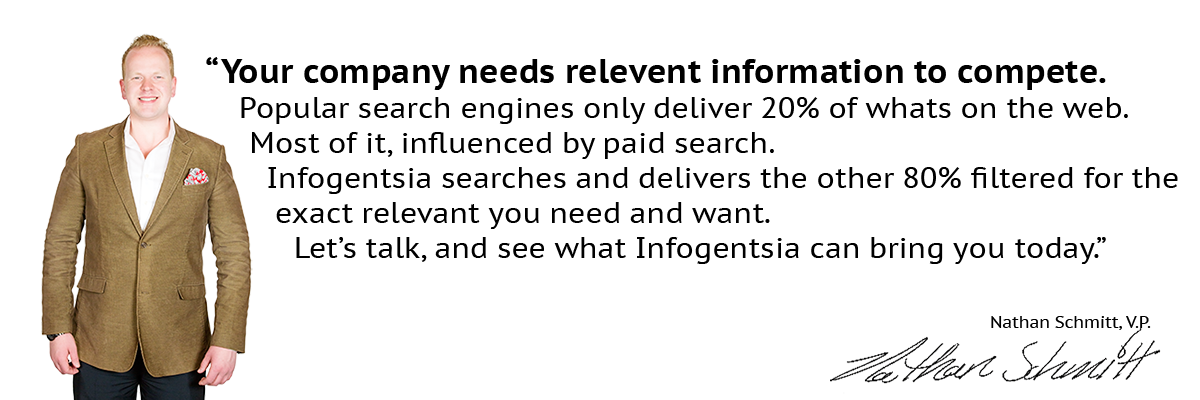
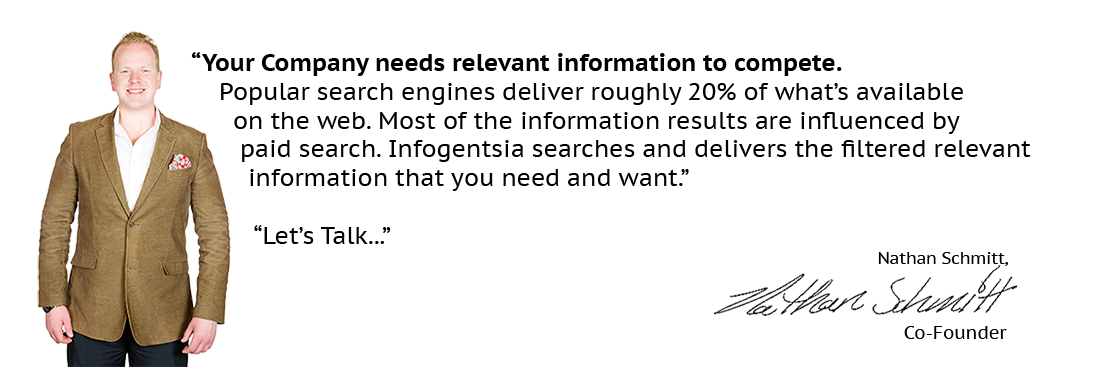
edits to rough draft

diff --git a/img/girlsmiles.html b/img/girlsmiles.html
@@ -1,0 +1,10 @@
+<!DOCTYPE html><html itemscope itemtype="http://schema.org/SearchResultsPage" prefix="og: http://ogp.me/ns/website#"><head><meta http-equiv="content-type" content="text/html; charset=UTF-8"><meta itemprop="image" content="http://www.citifmonline.com/wp-content/uploads/2015/01/black-woman-in-work.jpg"><meta itemprop="name" content="Google Image Result for http://www.citifmonline.com/wp-content/uploads/2015/01/black-woman-in-work.jpg"><meta property="og:type" content="website"><meta property="og:image" content="http://www.citifmonline.com/wp-content/uploads/2015/01/black-woman-in-work.jpg"><meta property="og:title" content="Google Image Result for http://www.citifmonline.com/wp-content/uploads/2015/01/black-woman-in-work.jpg"><title>Google Image Result for http://www.citifmonline.com/wp-content/uploads/2015/01/black-woman-in-work.jpg</title><script>(function(){window.google={kEI:'-rIHVtHLJ4XxoATl2bWoCw',kEXPI:'3310784,4028875,4029815,4031109,4031477,4032235,4032677,4033307,4033344,4034882,4036005,4036527,4037333,4037569,4037962,4037964,4038012,4038214,4039747,4041322,4041440,4041507,4041776,4041837,4042158,4042180,4042492,4043255,4043411,4043457,4043458,4043492,4043564,4043568,4043596,4044246,4044338,4044343,4044606,4044864,4045003,4045717,4045763,4045841,4045872,4046043,4046117,4046304,4046340,4046353,4046399,4046607,4046717,4046835,4046837,4046904,4046906,4047135,4047333,4047492,4047530,4047548,4047593,4047599,4047685,4047914,4048482,4048507,4048511,4048595,8300200,8300203,8501988,10200083',authuser:0,kscs:'c9c918f0_21'};google.kHL='en';})();(function(){google.lc=[];google.li=0;google.getEI=function(a){for(var b;a&&(!a.getAttribute||!(b=a.getAttribute("eid")));)a=a.parentNode;return b||google.kEI};google.getLEI=function(a){for(var b=null;a&&(!a.getAttribute||!(b=a.getAttribute("leid")));)a=a.parentNode;return b};google.https=function(){return"https:"==window.location.protocol};google.ml=function(){return null};google.time=function(){return(new Date).getTime()};google.log=function(a,b,d,e,g){a=google.logUrl(a,b,d,e,g);if(""!=a){b=new Image;var c=google.lc,f=google.li;c[f]=b;b.onerror=b.onload=b.onabort=function(){delete c[f]};window.google&&window.google.vel&&window.google.vel.lu&&window.google.vel.lu(a);b.src=a;google.li=f+1}};google.logUrl=function(a,b,d,e,g){var c="",f=google.ls||"";if(!d&&-1==b.search("&ei=")){var h=google.getEI(e),c="&ei="+h;-1==b.search("&lei=")&&((e=google.getLEI(e))?c+="&lei="+e:h!=google.kEI&&(c+="&lei="+google.kEI))}a=d||"/"+(g||"gen_204")+"?atyp=i&ct="+a+"&cad="+b+c+f+"&zx="+google.time();/^http:/i.test(a)&&google.https()&&(google.ml(Error("a"),!1,{src:a,glmm:1}),a="");return a};google.y={};google.x=function(a,b){google.y[a.id]=[a,b];return!1};google.load=function(a,b,d){google.x({id:a+k++},function(){google.load(a,b,d)})};var k=0;})();</script><script>(function(){google.c={c:{a:true,d:false,i:false,m:true}};google.sn='imgres';(function(){function f(a,c,b){g.push({o:a,v:c,w:b});h?a.addEventListener(c,b,!1):k&&a.attachEvent("on"+c,b)}function e(a,c,b){h?a.removeEventListener(c,b,!1):k&&a.detachEvent("on"+c,b)}var h=window.addEventListener,k=window.attachEvent,g=[];google.timers={};google.startTick=function(a,c){var b=c?google.timers[c].t.start:google.time();google.timers[a]={t:{start:b},e:{},it:{},b:{}};(b=window.performance)&&b.now&&(google.timers[a].wsrt=Math.floor(b.now()))};google.tick=function(a,c,b){google.timers[a]||
+google.startTick(a);b=b||google.time();c instanceof Array||(c=[c]);for(var d=0;d<c.length;++d)google.timers[a].t[c[d]]=b};google.c.e=function(a,c,b){google.timers[a].e[c]=b};google.bit=function(a,c){google.timers[a]||google.startTick(a);var b=google.timers[a].it[c];b||(b=google.timers[a].it[c]=[]);var d=b.push({s:google.time()})-1;return function(){b[d]&&(b[d].e=google.time())}};google.blockCSI=function(a,c){google.timers[a].b[c]=!0};google.unblockCSI=function(a,c){var b=google.timers[a];if(b){b=
+b.b;b[c]=!1;for(var d in b)if(b.hasOwnProperty(d)&&b[d])return;google.csiReport()}};google.rll=function(a,c,b){var d=function(c){b(c);e(a,"load",d);e(a,"error",d)};f(a,"load",d);c&&f(a,"error",d)};google.ull=function(){for(var a;a=g.shift();)e(a.o,a.v,a.w)};google.iTick=function(a){var c=google.time();google.tick("load","iml",c);a=a.id||a.src||a.name;google.tick("iml",a,c);google.c.c.a&&google.tick("aft",a,c)};google.afte=!0;google.aft=function(a){google.c.c.a&&google.afte&&google.tick("aft",a.id||
+a.src||a.name)};google.startTick("load");google.blockCSI("load","ol");google.blockCSI("load","xjs")})();})();try{google['pt']=window['chrome']&&window['chrome']['csi']&&Math.floor(window['chrome']['csi']()['pageT']);}catch(e){}
+</script><script></script><script>(function(){'use strict';var k=this,l=Date.now||function(){return+new Date};var t={};var w=function(a,d){if(null===d)return!1;if("contains"in a&&1==d.nodeType)return a.contains(d);if("compareDocumentPosition"in a)return a==d||Boolean(a.compareDocumentPosition(d)&16);for(;d&&a!=d;)d=d.parentNode;return d==a};var x=function(a,d){return function(b){b||(b=window.event);return d.call(a,b)}},B=function(a){a=a.target||a.srcElement;!a.getAttribute&&a.parentNode&&(a=a.parentNode);return a},C="undefined"!=typeof navigator&&/Macintosh/.test(navigator.userAgent),D="undefined"!=typeof navigator&&!/Opera/.test(navigator.userAgent)&&/WebKit/.test(navigator.userAgent),E={A:1,INPUT:1,TEXTAREA:1,SELECT:1,BUTTON:1},F=function(){this._mouseEventsPrevented=!0},G={A:13,BUTTON:0,CHECKBOX:32,COMBOBOX:13,GRIDCELL:13,LINK:13,LISTBOX:13,MENU:0,MENUBAR:0,MENUITEM:0,MENUITEMCHECKBOX:0,MENUITEMRADIO:0,OPTION:0,RADIO:32,RADIOGROUP:32,RESET:0,SUBMIT:0,TAB:0,TREE:13,TREEITEM:13},H=function(a){return(a.getAttribute("type")||a.tagName).toUpperCase()in aa},I=function(a){return(a.getAttribute("type")||a.tagName).toUpperCase()in ba},aa={CHECKBOX:!0,OPTION:!0,RADIO:!0},ba={COLOR:!0,DATE:!0,DATETIME:!0,"DATETIME-LOCAL":!0,EMAIL:!0,MONTH:!0,NUMBER:!0,PASSWORD:!0,RANGE:!0,SEARCH:!0,TEL:!0,TEXT:!0,TEXTAREA:!0,TIME:!0,URL:!0,WEEK:!0},ca={A:!0,AREA:!0,BUTTON:!0,DIALOG:!0,IMG:!0,INPUT:!0,LINK:!0,MENU:!0,OPTGROUP:!0,OPTION:!0,PROGRESS:!0,SELECT:!0,TEXTAREA:!0};var J=function(){this.v=this.o=null},L=function(a,d){var b=K;b.o=a;b.v=d;return b};J.prototype.s=function(){var a=this.o;this.o&&this.o!=this.v?this.o=this.o.__owner||this.o.parentNode:this.o=null;return a};var M=function(){this.w=[];this.o=0;this.v=null;this.H=!1};M.prototype.s=function(){if(this.H)return K.s();if(this.o!=this.w.length){var a=this.w[this.o];this.o++;a!=this.v&&a&&a.__owner&&(this.H=!0,L(a.__owner,this.v));return a}return null};var K=new J,O=new M;var Q=function(){this.J=[];this.o=[];this.s=[];this.H={};this.v=null;this.w=[];P(this,"_custom")},da="undefined"!=typeof navigator&&/iPhone|iPad|iPod/.test(navigator.userAgent),R=String.prototype.trim?function(a){return a.trim()}:function(a){return a.replace(/^\s+/,"").replace(/\s+$/,"")},ea=/\s*;\s*/,ia=function(a,d){return function(b){var c=d;if("_custom"==c){c=b.detail;if(!c||!c._type)return;c=c._type}var e;if("click"==c&&(C&&b.metaKey||!C&&b.ctrlKey||2==b.which||null==b.which&&4==b.button||b.shiftKey))c="clickmod";else{var f;f=b.which||b.keyCode||b.key;D&&3==f&&(f=13);if(13!=f&&32!=f)f=!1;else{var m=B(b),q=(m.getAttribute("role")||m.type||m.tagName).toUpperCase(),h;(h="keydown"!=b.type)||("getAttribute"in m?(h=(m.getAttribute("role")||m.tagName).toUpperCase(),h=!I(m)&&("COMBOBOX"!=h||"INPUT"!=h)&&!m.isContentEditable):h=!1,h=!h);(h=
+h||b.ctrlKey||b.shiftKey||b.altKey||b.metaKey||H(m)&&32==f)||((h=m.tagName in E)||(h=m.getAttributeNode("tabindex"),h=null!=h&&h.specified),h=!(h&&0<=m.tabIndex&&!m.disabled));h?f=!1:(m="INPUT"!=m.tagName.toUpperCase()||m.type,h=!(q in G)&&13==f,f=(0==G[q]%f||h)&&!!m)}f&&(c="clickkey")}q=b.srcElement||b.target;f=S(c,b,q,"",null);var g;b.path?(O.w=b.path,O.o=0,O.v=this,O.H=!1,m=O):m=L(q,this);for(;h=m.s();){g=e=h;h=c;var n=g.__jsaction;if(!n){var u=void 0,n=null;"getAttribute"in g&&(n=g.getAttribute("jsaction"));if(u=n){n=t[u];if(!n){for(var n={},y=u.split(ea),z=0,fa=y?y.length:0;z<fa;z++){var r=y[z];if(r){var A=r.indexOf(":"),N=-1!=A,ga=N?R(r.substr(0,A)):"click",r=N?R(r.substr(A+1)):r;n[ga]=r}}t[u]=n}g.__jsaction=n}else n=ha,g.__jsaction=n}"clickkey"==h?h="click":"click"!=h||n.click||(h="clickonly");g={I:h,action:n[h]||"",event:null,M:!1};f=S(g.I,g.event||b,q,g.action||"",e,f.timeStamp);if(g.M||g.action)break}f&&"touchend"==f.eventType&&(f.event._preventMouseEvents=F);if(g&&g.action){if(g="clickkey"==c)g=
+B(b),g=(g.type||g.tagName).toUpperCase(),(g=32==(b.which||b.keyCode||b.key)&&"CHECKBOX"!=g)||(g=B(b),q=(g.getAttribute("role")||g.tagName).toUpperCase(),g=g.tagName.toUpperCase()in ca&&"A"!=q&&!H(g)&&!I(g)||"BUTTON"==q);g&&(b.preventDefault?b.preventDefault():b.returnValue=!1);if("mouseenter"==c||"mouseleave"==c)if(g=b.relatedTarget,!("mouseover"==b.type&&"mouseenter"==c||"mouseout"==b.type&&"mouseleave"==c)||g&&(g===e||w(e,g)))f.action="",f.actionElement=null;else{var c={},p;for(p in b)"function"!==
+typeof b[p]&&"srcElement"!==p&&"target"!==p&&(c[p]=b[p]);c.type="mouseover"==b.type?"mouseenter":"mouseleave";c.target=c.srcElement=e;c.bubbles=!1;f.event=c;f.targetElement=e}}else f.action="",f.actionElement=null;e=f;a.v&&(p=S(e.eventType,e.event,e.targetElement,e.action,e.actionElement,e.timeStamp),"clickonly"==p.eventType&&(p.eventType="click"),a.v(p,!0));if(e.actionElement){"A"!=e.actionElement.tagName||"click"!=e.eventType&&"clickmod"!=e.eventType||(b.preventDefault?b.preventDefault():b.returnValue=
[1 lines of base64/hex data omitted]
+</script></div></body><script>(function(){google.rll(window,!1,function(){google.tick("load","ol");google.unblockCSI("load","ol")});google.tick("load","prt");})();</script></html>

diff --git a/testimonials.html b/testimonials.html
@@ -44,7 +44,7 @@
 						</ul>  
 
 						<ul class="nav navbar-nav navbar-right"> 
-						     <li id="nav-right"><a href="tel:+1-503-701-8747"><img src="img/phone.png" id="phone-ico" alt="phone">LET'S TALK</a><br><span id="tely"><a href="tel:+1-503-701-8747">+1-503-701-8747</a></span></a></li>
+						    <li id="nav-right"><a href="tel:+1-503-701-8747"><img src="img/phone.png" id="phone-ico" alt="phone">LET'S TALK</a><br><span id="tely"><a href="tel:+1-503-701-8747">+1-503-701-8747</a></span></a></li>
 							<li  id="d-top">
 							<form class="searchbox nav navbar-right">
 								<input type="search" placeholder="Search......" name="search" class="searchbox-input" onkeyup="buttonUp();" required>
@@ -104,7 +104,7 @@
 						
 						<p class="floatIt">
 							“As a board member for not for profit and for profit companies across the country, it is important that I keep up with news and information regarding each company. It is difficult to find Industry news and competitive information in a real time, summarized, easy to read format at my fingertips each morning. Infogentsia does just that, improving my ability to provide immediate and sound oversight and strategic direction. It is a tool all senior executives and board members should use to provide them and their companies a competitive edge in today's environment.”	<br><br>
-							<i> - Julie Klapstein: Sr. Board Member and Private Equity</i>
+							<i> - Julie Klapstein: Senior Board Member and Private Equity</i>
 						</p>
 					<!-- </div> -->
 				</div>
@@ -127,7 +127,7 @@
 						
 						<p class="floatIt">
 							“The Infogentsia platform has yielded some very useful data, particularly as it relates to marketing.  It allows me to track people of interest and companies, including existing clients and targets.  For example, just this morning, I learned of important management appointments at [Client] that [our firm's engagement partner for the client] had not known of.  Yesterday, I learned of an unpublished opinion by Judge Panner on an attorney fee award issue that is important to me. It was a day old and had not made it into the legal publications.  It also led me to an op-ed in the Biz Journal a couple of weeks ago by [one of our clients] which gave me the basis for connecting with her to congratulate her on a job well done.” <br><br>
-							<i> - Daniel Skerritt: Practicing Lawyer</i>
+							<i> - Daniel Skerritt: Practicing Lawyer <br>  &nbsp;&nbsp;Tonkon Torp LLP</i>
 						</p>
 					<!-- </div> -->
 				</div>
@@ -150,7 +150,7 @@
 						
 						<p class="floatIt">
 							“As a paint company focused on color+design, the Infogentsia platform puts current color trends, color forecasting information, and competitor color and product releases in my inbox each morning.  This curated approach not only saves me time, but also helps make sure I'm not missing anything in the big wide world of color.  Being clued into what is happening here in the US in interiors as well as globally- from Europe to South America helps me create the richest content possible for Colorhouse.”<br><br>
-							<i> - Puji Sherer: Design and Retail</i>
+							<i> - Puji Sherer: Design and Retail <br>&nbsp;&nbsp;Colorhouse&trade;</i>
 						</p>
 					<!-- </div> -->
 				</div>
@@ -174,7 +174,7 @@
 						
 						<p class="floatIt">
 							"Infogentsia has become an important research tool for our firm.  It allows us to keep our clients informed on important facts and trends.  It's easy to use, saves us an enormous amount of time having the information funnel into one news feed both subscription and free news articles.  We've found the information is more in-depth than what you find through traditional search engines which provides us richer, more meaningful information in the the business sectors our clients compete in."<br><br>
-							<i> - Scott Thompson: Managing Partner, MBT Marketing</i>
+							<i> - Scott Thompson: Managing Partner <br> &nbsp;&nbsp;MBT Marketing</i>
 						</p>
 					<!-- </div> -->
 				</div>

diff --git a/index.html b/index.html
@@ -76,7 +76,7 @@
 			<article id="opener">	
 				<div class="container" id="visible">		
 					<div class="row">
-						<img src="img/nathanquote3.png" alt="" class="img-responsive" id="nathanquote">
+						<img src="img/nathanquote.png" alt="" class="img-responsive" id="nathanquote">
 					</div>
 				</div>
 
@@ -112,7 +112,7 @@
 				<div class="container">
 					<div class="row">
 						<div class="text-center"  id="inner-ocean">
-							<p id="oceanofweb">Infogentsia searches the ocean of web information and reduces it to the size you need!</p>
+							<p id="oceanofweb">Infogentsia takes an ocean of information and reduces it to the size you need!</p>
 						</div>
 						<!-- <div class="col-md-6" id="inner-pitcher">
 							<img src="img/waterimgs.png" alt="water pitcher" class="img-responsive inline">
@@ -154,7 +154,7 @@
 							<div class="col-sm-6 col-md-3 testimonials">
 								<!-- <div class="container"> -->
 									<img src="img/julie.png" alt="Julie" id="julie-pic">
-									<h3 class="text-center">EXECUTIVES</h3>
+									<h4 class="text-center">EXECUTIVES</h4>
 									<p>
 										“As a board member for not for profit and for profit companies across the country... <a href="testimonials.html#executives">Read More</a>
 									</p>
@@ -164,7 +164,7 @@
 							<div class="col-sm-6 col-md-3 testimonials">
 								<!-- <div class="container"> -->
 								<img src="img/puji.png" alt="Julie" id="julie-pic">
-								<h3 class="text-center">DESIGN & RETAIL</h3>
+								<h4 class="text-center">DESIGN & RETAIL</h4>
 								<p>
 									“As a paint company focused on color+design, the Infogentsia platform puts current color trends, color forecasting information...<a class="read-more" href="testimonials.html#design">Read More</a>
 								</p>
@@ -174,7 +174,7 @@
 							<div class="col-sm-6 col-md-3 testimonials">
 								<!-- <div class="container"> -->
 								<img src="img/Tonkon-Torp.png" alt="daniel" id="julie-pic">
-								<h3 class="text-center">ATTORNEYS</h3>
+								<h4 class="text-center">ATTORNEYS</h4>
 								<p>
 									“The Infogentsia platform has yielded some very useful data, particularly as it... <a class="read-more" href="testimonials.html#attorneys">Read More</a>
 								</p>
@@ -184,7 +184,7 @@
 							<div class="col-sm-6 col-md-3 testimonials">
 								<!-- <div class="container"> -->
 								<img src="img/scott.png" alt="scott" id="julie-pic">
-								<h3 class="text-center">MARKETING</h3>
+								<h4 class="text-center">MARKETING</h4>
 								<p>
 									"Infogentsia has become an important research tool for our firm.  It allows us to keep our clients informed...<a class="read-more" href="testimonials.html#marketing">Read More</a>
 								</p>

diff --git a/contact-us.html b/contact-us.html
@@ -72,7 +72,49 @@
 			</div><!-- /.container-fluid -->
 		</nav>
 	</div>
-	<iframe src="https://docs.google.com/forms/d/1WNupJqcSfYGJ3ih4J4ZmRImTBLthgvCmIiAD8cKIw6M/viewform?embedded=true" width="100%" height="500" frameborder="0" marginheight="0" marginwidth="0">Loading...</iframe>
+
+	<div class="container" id="contact-one">
+		<div class="container text-center"  id="about-one">
+			<h1>
+				If you have a question or would like to get ahold of us, We would love to hear from you!
+			</h1><br><br>
+			
+		</div>
+	</div>
+	<br><br>
+	<div class="row">
+		<div class="col-md-6">	
+			<div class="container">
+				<form class="form-inline" action="form_process.php" method="post" name="contact_form">
+					<div class="form-group">
+		    			<label for="name">Name</label><br>
+		   				<input type="text" class="form-control" id="name" placeholder="Jane Doe">
+		  			</div><br>
+					<div class="form-group">
+					    <label for="phone">Phone</label><br>
+					    <input type="tel" class="form-control" id="phone" placeholder="1-555-555-5555">
+		  			</div><br>
+					<div class="form-group">
+		    			<label for="email">E-mail</label><br>
+		    			<input type="email" class="form-control" id="email" placeholder="email@example.com">
+		  			</div><br>
+					<div class="form-group">
+		    			<label for="message">Message</label><br>
+		    			<textarea class="form-control" name="message" id="message" cols="40" rows="5"></textarea>
+		  			</div><br><br>
+					<div class="form-group">
+						<input type="submit" class="btn btn-default" name="submit" value="Submit">
+						<input type="reset" class="btn btn-danger" name="reset" value="Reset">
+					</div>
+				</form>
+			</div>
+		</div>
+
+		<div class="col-md-6">
+			<iframe width="425" height="350" frameborder="0" scrolling="no" marginheight="0" marginwidth="0" src="https://www.google.com/maps/embed?pb=!1m14!1m8!1m3!1d2795.5751697483697!2d-122.6821668!3d45.518629999999995!3m2!1i1024!2i768!4f13.1!3m3!1m2!1s0x54950a04d2fc00f5%3A0x79c6c0aa8e0fbf47!2s919+SW+Taylor+St+%23230%2C+Portland%2C+OR+97205!5e0!3m2!1sen!2sus!4v1406450135845" width="600" height="450" frameborder="0" style="border:0"></iframe>
+		</div>
+	</div>
+	<!-- <iframe src="https://docs.google.com/forms/d/1WNupJqcSfYGJ3ih4J4ZmRImTBLthgvCmIiAD8cKIw6M/viewform?embedded=true" width="100%" height="500" frameborder="0" marginheight="0" marginwidth="0">Loading...</iframe> -->
 
 	<br>
 	<br>

diff --git a/css/style.css b/css/style.css
@@ -6,7 +6,7 @@ body {
 p {
 	vertical-align: middle;
 	text-align: left;
-	font-size: 16px;
+	font-size: 15px;
 }
 
 h1 {
@@ -42,7 +42,7 @@ div#navbar{
 	margin-right: 0;
 	margin-left: 0;
 	width: 100%;
-	font-size: 10px;
+	font-size: 12px;
 
 }
 
@@ -256,17 +256,17 @@ hr {
 
 p#oceanofweb {
 	background-color: rgba(0, 0, 0, 0.5);
-	border-radius: 2px;
-	box-shadow: 1px 1px 3px 1px rgba(0,0,0,0.6);
+	/*border-radius: 2px;*/
+	/*box-shadow: 1px 1px 3px 1px rgba(0,0,0,0.6);*/
 	height: 100%;
-	padding: 15px;
+	padding: 20px;
 	color: white;
 	text-align: center;
 	margin-left: auto;
 	margin-right: auto;
 	vertical-align: middle;
 	max-width: 50%;
-	font-size: 26px;
+	font-size: 30px;
 	text-shadow: 2px 3px rgba(0, 0, 0, 0.4);
 	
 }
@@ -376,7 +376,7 @@ p.floatIt {
 	text-shadow: 1px 1px rgba(0, 0, 0, 0.5);
 	color: white;
 	padding: 20px 0;
-	font-size: 10px;
+	font-size: 14px;
 	margin-top: 0px;
 	margin-bottom: 0px;
 	
@@ -494,10 +494,14 @@ div#office2 h1 {
 	background-color: rgba(0,0,0,0.3);
 }
 
+article>h1 {
+	margin-left: 25px;
+}
+
 
 /*ABOUT STYLESHEET*/
 #about-one>h1{
-	font-size: 34px;
+	font-size: 30px;
 	color: white;
 	background-color: rgba(0,0,0,0.3);
 	max-width: 60%;
@@ -505,8 +509,7 @@ div#office2 h1 {
 	text-align: center;
 	vertical-align: middle;
 	margin-right: auto;
-	padding-left: 0;
-	padding-right: 0;
+	padding:15px;
 	margin-left: auto;
 	padding-top: 15px;
 	padding-bottom: 15px;
@@ -552,8 +555,25 @@ button#learn-more a:hover {
 #about-two {
 	margin-top:10%;
 	margin-bottom: 10%;
-	max-width: 60%;
-	background-color: #;
+	max-width: 70%;
+	/*box-shadow: 0px 0px 10px 0px rgba(0,0,0,0.5);*/
+	
+}
+#about-two p {
+	font-size: 20px;
+	text-align: justify;
+	text-shadow: 0px 0px rgba(0,0,0,0.5);
+}
+
+/*contact stylesheets*/
+
+#contact-one {
+	width: 100%;
+	height: 500px;
+	background-image: url('../img/oceaneve.png');
+	background-repeat: no-repeat;
+	background-size: cover;
+	background-position: center;
 }
 
 

diff --git a/about.html b/about.html
@@ -43,10 +43,11 @@
 						    <li><a href="testimonials.html">TESTIMONIALS</a></li>
 						    <li><a href="contact-us.html">CONTACT US</a></li>
 						    <li><a href="index.html">HOME</a></li>
+
 						</ul>  
 
 						<ul class="nav navbar-nav navbar-right"> 
-						     <li id="nav-right"><a href="tel:+1-503-701-8747"><img src="img/phone.png" id="phone-ico" alt="phone">LET'S TALK</a><br><span id="tely"><a href="tel:+1-503-701-8747">+1-503-701-8747</a></span></a></li>
+						    <li id="nav-right"><a href="tel:+1-503-701-8747"><img src="img/phone.png" id="phone-ico" alt="phone">LET'S TALK</a><br><span id="tely"><a href="tel:+1-503-701-8747">+1-503-701-8747</a></span></a></li>
 							<li  id="d-top">
 							<form class="searchbox nav navbar-right">
 								<input type="search" placeholder="Search......" name="search" class="searchbox-input" onkeyup="buttonUp();" required>
@@ -80,7 +81,11 @@
 	</div>
 
 	<div class="container" id="about-two">
-		<h3 class="text-center" id="abouttag">ABOUT US</h3>
+		<br>
+		<br>
+		<br>
+		<br>
+		<h2 class="text-center" id="abouttag">ABOUT US</h2>
 		<hr>
 		<br>
 		<br>

diff --git a/js/script.js b/js/script.js
@@ -68,7 +68,7 @@
                 
                 if(Math.abs(scrollPosition - scrollTop) >= delta){
                     if(scrollTop > scrollPosition){
-                        $('#navbar').css('opacity', 0.05);
+                        $('#navbar').css('opacity', 0.0);
 
                     }else{
                         $('#navbar').css('opacity', 1);
@@ -114,6 +114,19 @@
 
             $testimony.hide();
             $testimony.fadeIn(1000);
+
+
+            //pageload contact us
+
+            var $contact = $('#contact-one');
+
+            $contact.hide();
+            $contact.fadeIn(1000);
+
+
+
+
+
 
         });
             
